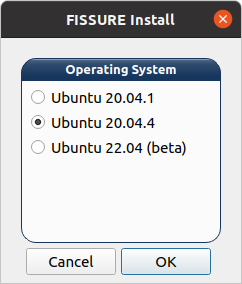
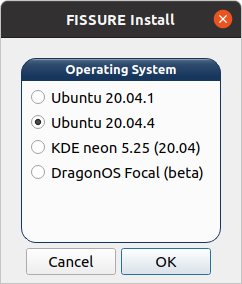
New maint-3.10 branch, Discord link, README images

diff --git a/Help/SoftwareAndConflicts.html b/Help/SoftwareAndConflicts.html
@@ -434,7 +434,7 @@
 <td align="center"><g-emoji class="g-emoji" alias="heavy_check_mark" fallback-src="https://github.githubassets.com/images/icons/emoji/unicode/2714.png">✔</g-emoji></td>
 <td align="center"><g-emoji class="g-emoji" alias="heavy_check_mark" fallback-src="https://github.githubassets.com/images/icons/emoji/unicode/2714.png">✔</g-emoji></td>
 <td align="center"><g-emoji class="g-emoji" alias="heavy_check_mark" fallback-src="https://github.githubassets.com/images/icons/emoji/unicode/2714.png">✔</g-emoji></td>
-<td align="center"><g-emoji class="g-emoji" alias="question" fallback-src="https://github.githubassets.com/images/icons/emoji/unicode/2753.png">❓</g-emoji></td>
+<td align="center"><g-emoji class="g-emoji" alias="x" fallback-src="https://github.githubassets.com/images/icons/emoji/unicode/274c.png">❌</g-emoji></td>
 </tr>
 <tr>
 <td>gr-iridium</td>
@@ -587,7 +587,7 @@
 <td align="center"><g-emoji class="g-emoji" alias="heavy_check_mark" fallback-src="https://github.githubassets.com/images/icons/emoji/unicode/2714.png">✔</g-emoji></td>
 <td align="center"><g-emoji class="g-emoji" alias="heavy_check_mark" fallback-src="https://github.githubassets.com/images/icons/emoji/unicode/2714.png">✔</g-emoji></td>
 <td align="center"><g-emoji class="g-emoji" alias="heavy_check_mark" fallback-src="https://github.githubassets.com/images/icons/emoji/unicode/2714.png">✔</g-emoji></td>
-<td align="center"><g-emoji class="g-emoji" alias="question" fallback-src="https://github.githubassets.com/images/icons/emoji/unicode/2753.png">❓</g-emoji></td>
+<td align="center"><g-emoji class="g-emoji" alias="x" fallback-src="https://github.githubassets.com/images/icons/emoji/unicode/274c.png">❌</g-emoji></td>
 </tr>
 <tr>
 <td>IMSI-Catcher 4G</td>
@@ -668,7 +668,7 @@
 <td align="center"><g-emoji class="g-emoji" alias="heavy_check_mark" fallback-src="https://github.githubassets.com/images/icons/emoji/unicode/2714.png">✔</g-emoji></td>
 <td align="center"><g-emoji class="g-emoji" alias="heavy_check_mark" fallback-src="https://github.githubassets.com/images/icons/emoji/unicode/2714.png">✔</g-emoji></td>
 <td align="center"><g-emoji class="g-emoji" alias="heavy_check_mark" fallback-src="https://github.githubassets.com/images/icons/emoji/unicode/2714.png">✔</g-emoji></td>
-<td align="center"><g-emoji class="g-emoji" alias="question" fallback-src="https://github.githubassets.com/images/icons/emoji/unicode/2753.png">❓</g-emoji></td>
+<td align="center"><g-emoji class="g-emoji" alias="x" fallback-src="https://github.githubassets.com/images/icons/emoji/unicode/274c.png">❌</g-emoji></td>
 </tr>
 <tr>
 <td>Metasploit</td>

diff --git a/dashboard.py b/dashboard.py
@@ -1545,6 +1545,7 @@ class MainWindow(QtGui.QMainWindow, form_class):
         self.actionLTE_ciphercheck.triggered.connect(self._slotMenuLTE_ciphercheckClicked)
         self.actionElectromagnetic_Radiation_Spectrum.triggered.connect(self._slotMenuElectromagneticRadiationSpectrumClicked)
         self.actionIIO_Oscilloscope.triggered.connect(self._slotMenuIIO_OscilloscopeClicked)
+        self.actionDiscord.triggered.connect(self._slotMenuHelpDiscordClicked)
         
         # Tab Widgets
         self.tabWidget_tsi.currentChanged.connect(self._slotTSI_TabChanged)
@@ -20834,7 +20835,12 @@ class MainWindow(QtGui.QMainWindow, form_class):
         print "Please wait about 30 seconds for IIO Oscilloscope to load..."
         os.system("osc &")
         
-        
+    def _slotMenuHelpDiscordClicked(self):
+        """ Opens a browser to the FISSURE Discord server.
+        """
+        # Open a Browser 
+        os.system("sensible-browser https://discord.gg/JZDs5sgxcG &") 
+                
 
 class HelpMenuDialog(QtGui.QDialog, form_class6):
     def __init__(self):

diff --git a/README.md b/README.md
@@ -11,7 +11,7 @@ The friendly Python codebase and user interface allows beginners to quickly lear
 
 **Supported**
 
-There are two branches within FISSURE to make file navigation easier and reduce code redundancy. The Python2_maint-3.7 branch contains a codebase built around Python2, PyQt4, and GNU Radio 3.7; while the Python3_maint-3.8 branch is built around Python3, PyQt5, and GNU Radio 3.8.
+There are three branches within FISSURE to make file navigation easier and reduce code redundancy. The Python2_maint-3.7 branch contains a codebase built around Python2, PyQt4, and GNU Radio 3.7; the Python3_maint-3.8 branch is built around Python3, PyQt5, and GNU Radio 3.8; and the Python3_maint-3.10 branch is built around Python3, PyQt5, and GNU Radio 3.10.
 
 Operating System            |  FISSURE Branch
 :-------------------------:|:-------------------------:
@@ -29,7 +29,7 @@ These operating systems are still in beta status. They are under development and
 Operating System            |  FISSURE Branch
 :-------------------------:|:-------------------------:
 | DragonOS Focal (x86_64) | Python3_maint-3.8 |
-| Ubuntu 22.04 (x64) | Python3_maint-3.8 |
+| Ubuntu 22.04 (x64) | Python3_maint-3.10 |
 
 Note: Certain software tools do not work for every OS. Refer to [Software And Conflicts](/Help/Markdown/SoftwareAndConflicts.md)
 
@@ -46,9 +46,9 @@ This will install PyQt software dependencies required to launch the installation
 
 Next, select the option that best matches your operating system (should be detected automatically if your OS matches an option).
 
-Python2_maint-3.7            |  Python3_maint-3.8
-:-------------------------:|:-------------------------:
-![install1b](/Icons/README/install1b.png)  |  ![install1a](/Icons/README/install1a.png)
+Python2_maint-3.7            |  Python3_maint-3.8            |  Python3_maint-3.10
+:-------------------------:|:-------------------------:|:-------------------------:
+![install1b](/Icons/README/install1b.png)  |  ![install1a](/Icons/README/install1a.png)  |  ![install1c](/Icons/README/install1c.png)
 
 It is recommended to install FISSURE on a clean operating system to avoid existing conflicts. Select all the recommended checkboxes (Default button) to avoid errors while operating the various tools within FISSURE. There will be multiple prompts throughout the installation, mostly asking for elevated permissions and user names. If an item contains a "Verify" section at the end, the installer will run the command that follows and highlight the checkbox item green or red depending on if any errors are produced by the command. Checked items without a "Verify" section will remain black following the installation.
 
@@ -135,7 +135,7 @@ FISSURE comes with several helpful guides to become familiar with different tech
 
 ## Contributing
 
-Suggestions for improving FISSURE are strongly encouraged. Leave a comment in the [Discussions](https://github.com/ainfosec/FISSURE/discussions) page if you have any thoughts regarding the following:
+Suggestions for improving FISSURE are strongly encouraged. Leave a comment in the [Discussions](https://github.com/ainfosec/FISSURE/discussions) page or in the Discord Server if you have any thoughts regarding the following:
 - New feature suggestions and design changes
 - Software tools with installation steps
 - New lessons or additional material for existing lessons
@@ -165,6 +165,8 @@ GPL-3.0
 For license details, see LICENSE file.
 
 ## Contact
+
+Join the Discord Server: [https://discord.gg/JZDs5sgxcG](https://discord.gg/JZDs5sgxcG)
 
 Follow on Twitter: [@FissureRF](https://twitter.com/fissurerf), [@AinfoSec](https://twitter.com/ainfosec)
 

diff --git a/Help/Markdown/SoftwareAndConflicts.md b/Help/Markdown/SoftwareAndConflicts.md
@@ -38,7 +38,7 @@ The following is a table of the major software tools that have been proven to wo
 | gr-gsm | :heavy_check_mark: | :heavy_check_mark: | :heavy_check_mark: | :heavy_check_mark: | :heavy_check_mark: | :heavy_check_mark: |
 | gr-ieee802-11 | :heavy_check_mark: | :heavy_check_mark: | :heavy_check_mark: | :heavy_check_mark: | :heavy_check_mark: | :heavy_check_mark: |
 | gr-ieee802-15-4 | :heavy_check_mark: | :heavy_check_mark: | :heavy_check_mark: | :heavy_check_mark: | :heavy_check_mark: | :heavy_check_mark: |
-| gr-iio | :heavy_check_mark: | :heavy_check_mark: | :heavy_check_mark: | :heavy_check_mark: | :heavy_check_mark: | :question: |
+| gr-iio | :heavy_check_mark: | :heavy_check_mark: | :heavy_check_mark: | :heavy_check_mark: | :heavy_check_mark: | :x: |
 | gr-iridium | :heavy_check_mark: | :heavy_check_mark: | :heavy_check_mark: | :heavy_check_mark: | :heavy_check_mark: | :heavy_check_mark: |
 | gr-j2497 | :heavy_check_mark: | :heavy_check_mark: | :heavy_check_mark: | :heavy_check_mark: | :heavy_check_mark: | :heavy_check_mark: |
 | gr-limesdr | :heavy_check_mark: | :heavy_check_mark: | :heavy_check_mark: | :heavy_check_mark: | :heavy_check_mark: | :heavy_check_mark: |
@@ -55,7 +55,7 @@ The following is a table of the major software tools that have been proven to wo
 | ham2mon | :heavy_check_mark: | :heavy_check_mark: | :heavy_check_mark: | :x: | :x: | :x: |
 | hcidump | :heavy_check_mark: | :heavy_check_mark: | :heavy_check_mark: | :heavy_check_mark: | :heavy_check_mark: | :heavy_check_mark: |
 | Hydra | :heavy_check_mark: | :heavy_check_mark: | :heavy_check_mark: | :heavy_check_mark: | :heavy_check_mark: | :heavy_check_mark: |
-| IIO Oscilloscope | :heavy_check_mark: | :heavy_check_mark: | :heavy_check_mark: | :heavy_check_mark: | :heavy_check_mark: | :question: |
+| IIO Oscilloscope | :heavy_check_mark: | :heavy_check_mark: | :heavy_check_mark: | :heavy_check_mark: | :heavy_check_mark: | :x: |
 | IMSI-Catcher 4G | :heavy_check_mark: | :heavy_check_mark: | :heavy_check_mark: | :heavy_check_mark: | :heavy_check_mark: | :heavy_check_mark: |
 | Inspectrum | :heavy_check_mark: | :heavy_check_mark: | :heavy_check_mark: | :heavy_check_mark: | :heavy_check_mark: | :heavy_check_mark: |
 | IridiumLive |  :heavy_check_mark: | :heavy_check_mark: | :heavy_check_mark: | :heavy_check_mark: | :heavy_check_mark: | :heavy_check_mark: |
@@ -64,7 +64,7 @@ The following is a table of the major software tools that have been proven to wo
 | Kismet | :heavy_check_mark: | :heavy_check_mark: | :heavy_check_mark: | :heavy_check_mark: | :heavy_check_mark: | :question: |
 | libbtbb | :heavy_check_mark: | :heavy_check_mark: | :heavy_check_mark: | :heavy_check_mark: | :heavy_check_mark: | :heavy_check_mark: |
 | LTE-Cell-Scanner | :heavy_check_mark: | :heavy_check_mark: | :heavy_check_mark: | :heavy_check_mark: | :heavy_check_mark: | :heavy_check_mark: |
-| LTE-ciphercheck | :heavy_check_mark: | :heavy_check_mark: | :heavy_check_mark: | :heavy_check_mark: | :heavy_check_mark: | :question: |
+| LTE-ciphercheck | :heavy_check_mark: | :heavy_check_mark: | :heavy_check_mark: | :heavy_check_mark: | :heavy_check_mark: | :x: |
 | Metasploit | :heavy_check_mark: | :heavy_check_mark: | :heavy_check_mark: | :heavy_check_mark: | :heavy_check_mark: | :question: |
 | minicom | :heavy_check_mark: | :heavy_check_mark: | :heavy_check_mark: | :heavy_check_mark: | :heavy_check_mark: | :heavy_check_mark: |
 | minimodem | :heavy_check_mark: | :heavy_check_mark: | :heavy_check_mark: | :heavy_check_mark: | :heavy_check_mark: | :heavy_check_mark: |

diff --git a/CHANGELOG.md b/CHANGELOG.md
@@ -1,9 +1,36 @@
 # Change Log
 All notable changes to this project will be documented in this file.
 
+## 2022-09-10
+
+Ubuntu 22.04 and the 3.10 OOT modules have been moved to a new branch: Python3_maint-3.10.
+ 
+### Added
+
+- Python3_maint-3.10 branch with 3.10 flow graphs, OOTs, and submodules
+- Discord link to README
+- Python3_maint-3.10 installer image to README
+- Discord link to Help menu
+   
+### Changed
+
+- Removed 3.10 OOT modules and submodules from Python3_maint-3.8 branch
+- Python3_maint-3.8 installer image in README
+- Branch information throughout the README
+- Removed Ubuntu 22.04 from Python3_maint-3.8 installer
+- Python2_maint-3.7 installer warnings and checks for other operating systems
+- Disabled broken 22.04 tools in the Dashboard menu for Python3_maint-3.10 branch
+ 
+### Fixed
+
+- Removed attack history debug messages in Python3_maint-3.8 branch
+- Check for KDE neon/Ubuntu 22.04 in the initial install script in Python3_maint-3.8 branch
+- Updated commands for 802.11 Monitor Mode Tool for Ubuntu 22.04 in Python3_maint-3.10 branch
+- Converted Monitor Mode Tool to Python3/PyQt5 for 3.8, 3.10 branches
+
 ## 2022-09-07
 
-The new KDE neon install follows the same steps as Ubuntu 20.04.4. 
+The new KDE neon install follows the same steps as Ubuntu 20.04.4. The GUIs look a little wonky due to the differences in Qt.
 
 ### Added
 
